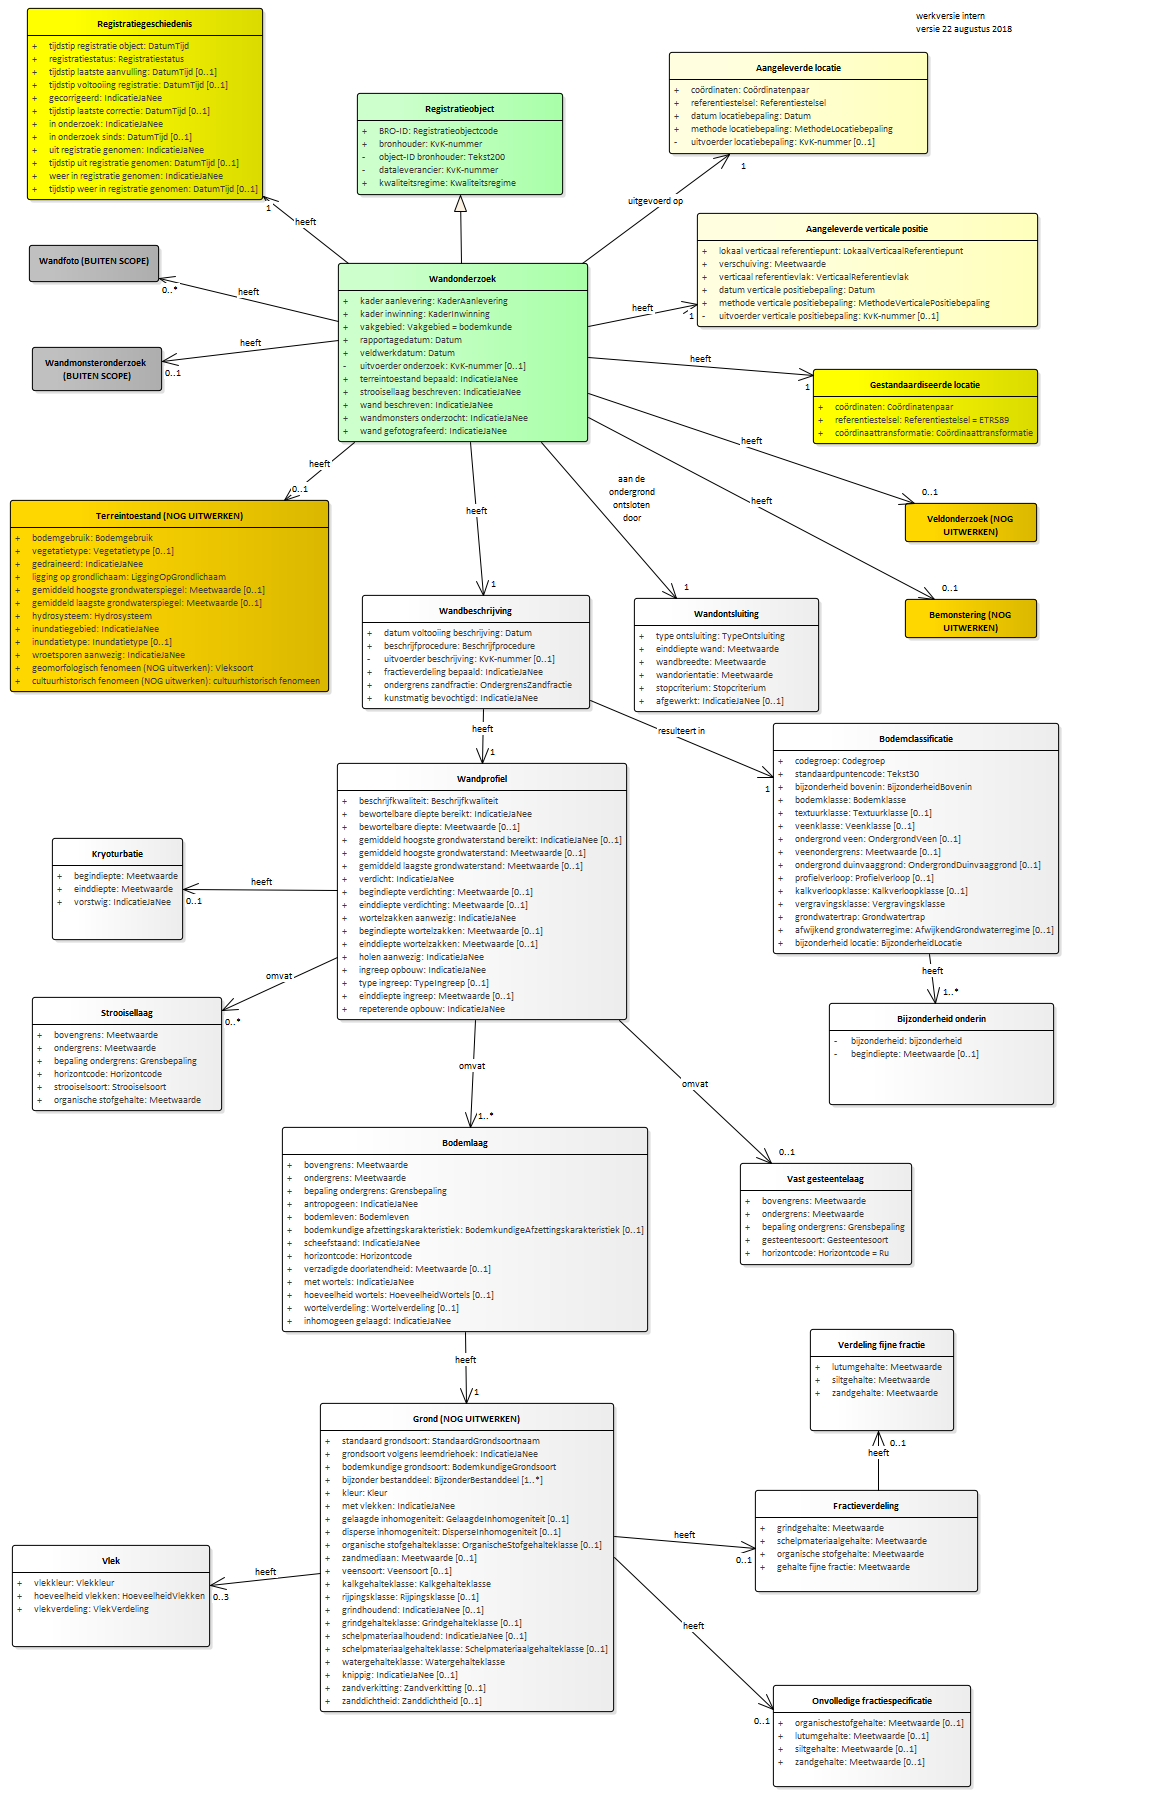
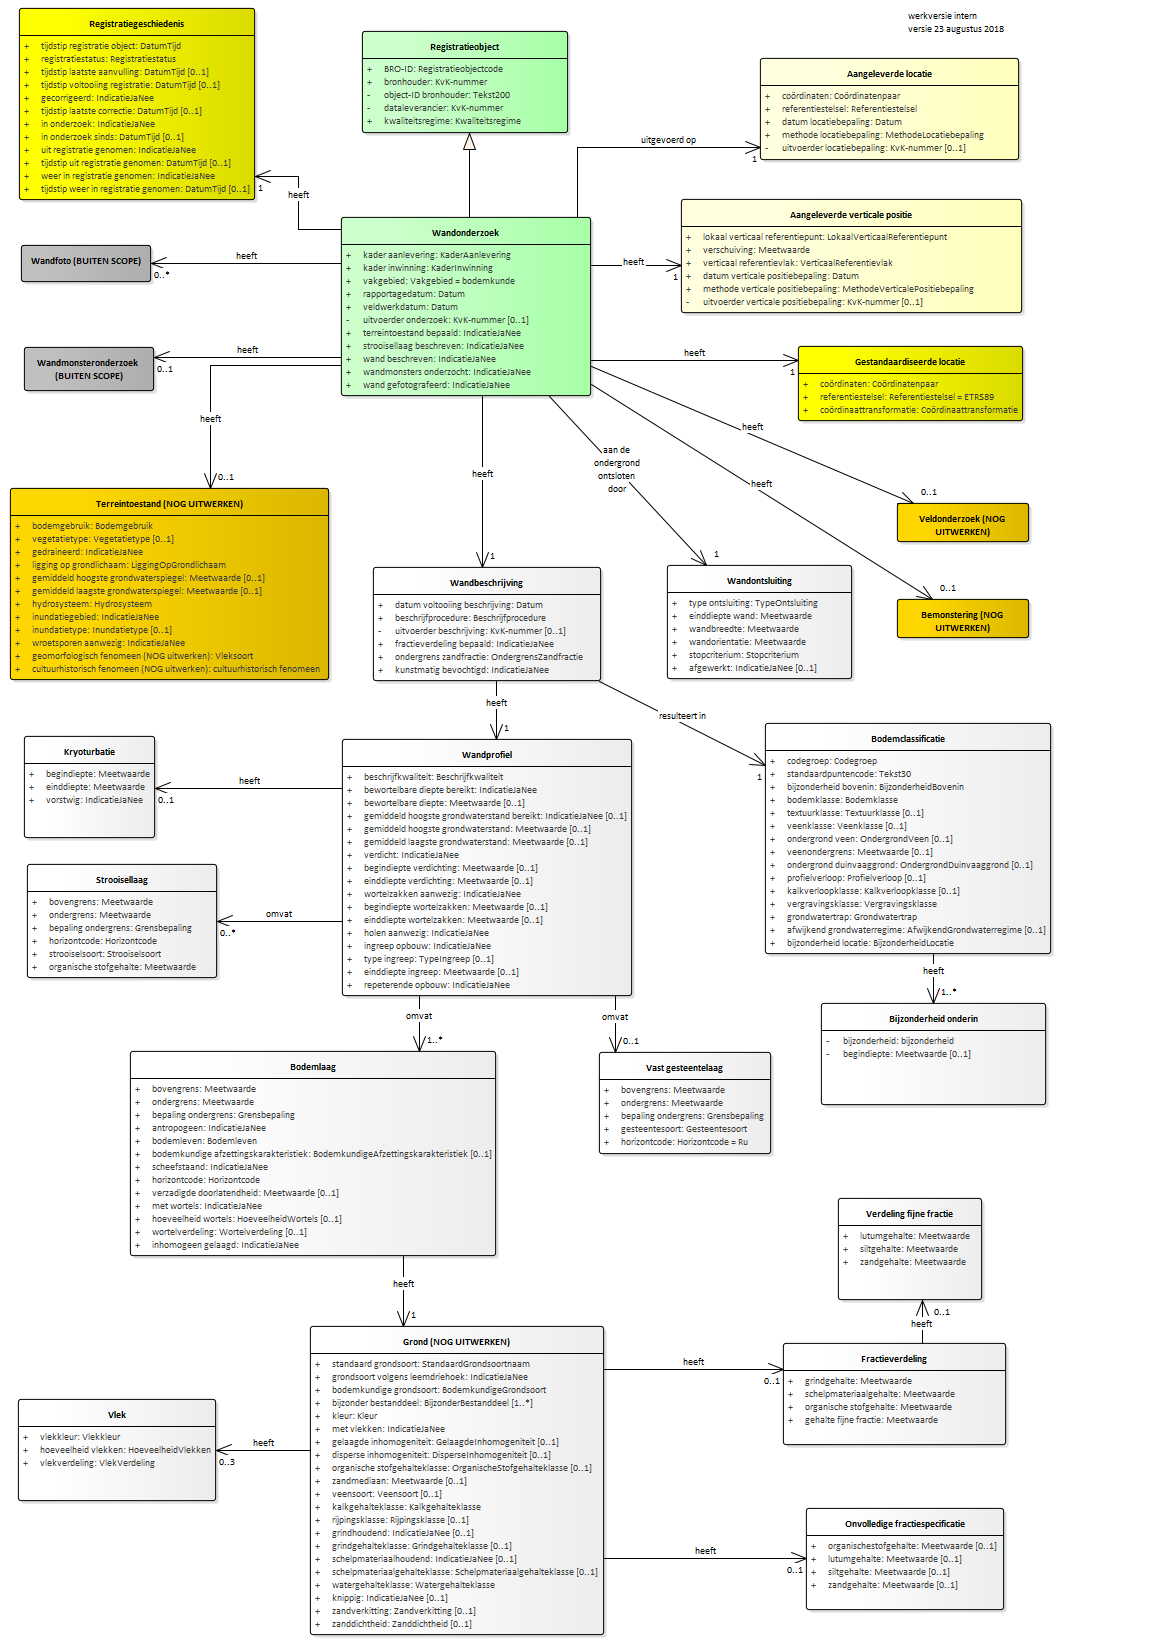
Conceptualmodel-SPRconceptueel-0.1-0-20180831-20180823-101550

diff --git a/data/SPR-cat.html b/data/SPR-cat.html
@@ -1,10 +1,10 @@
 <h2>Catalogus</h2>
 <p class="note" title="Over deze catalogus">
    Deze catalogus is automatisch samengesteld op basis van het UML model 
-   "SPR conceptueel" door 1.46.3 op August 23, 2018 at 08:06:28.
+   "SPR conceptueel" door 1.46.3 op August 23, 2018 at 08:15:49.
    <br>
    Wanneer je technische fouten of onvolkomenheden aantreft, geef dit dan door aan <i>arjan@linkedmatter.com</i> en geef de code 
-   <i>"Conceptualmodel-SPRconceptueel-0.1-0-20180831-20180823-100629"</i> door. 
+   <i>"Conceptualmodel-SPRconceptueel-0.1-0-20180831-20180823-101550"</i> door. 
    
 </p><a class="anchor" name="global_package_DomeinmodelBROCommon"></a><section id="global_package_DomeinmodelBROCommon">
    <h3>Domein Domeinmodel BRO Common</h3>
@@ -1869,31 +1869,31 @@
 </section><a class="anchor" name="global_package_DomeinmodelBROSPR"></a><section id="global_package_DomeinmodelBROSPR">
    <h3>Domein Domeinmodel BRO SPR</h3>
    <div class="imageinfo "><img src="data/Images/EAID_4968FCD8_1F02_446b_8736_2FECA525BBCF.png" usemap="#imagemap-EAID_4968FCD8_1F02_446b_8736_2FECA525BBCF"><map name="imagemap-EAID_4968FCD8_1F02_446b_8736_2FECA525BBCF">
-         <area shape="rect" coords="829,1105,1054,1003" alt="" href="#graph_EAID_7439D539_C3B4_41d7_884C_4892DACE8616">
-         <area shape="rect" coords="12,1647,210,1545" alt="" href="#graph_EAID_723B9E70_C415_406e_AFDD_5B4B8162F99B">
-         <area shape="rect" coords="52,940,183,838" alt="" href="#graph_EAID_B6DACFD8_0447_4b56_B5BA_A5EA1011CBF3">
-         <area shape="rect" coords="27,200,263,8" alt="" href="#graph_EAID_0588B737_B790_42ac_B52B_EABEF0C7FE5E">
-         <area shape="rect" coords="905,542,1037,503" alt="" href="#graph_EAID_87631265_D257_4a21_8BD9_D9571A90F5EC">
-         <area shape="rect" coords="773,1787,971,1685" alt="" href="#graph_EAID_2669D9E9_5412_45cc_AB9E_996A4EAC2268">
-         <area shape="rect" coords="773,954,1059,723" alt="" href="#graph_EAID_83679454_A1AF_460f_B1AD_DA2C07AA7514">
-         <area shape="rect" coords="905,638,1037,599" alt="" href="#graph_EAID_E454F4E6_2DFD_41c7_9BDA_33020C276B5E">
-         <area shape="rect" coords="810,1431,954,1329" alt="" href="#graph_EAID_0C200D10_24C8_4a4f_A671_2EA1E0044C4A">
-         <area shape="rect" coords="320,1712,614,1403" alt="" href="#graph_EAID_7B5A7FB0_C5D5_4250_9478_49C85B05CE75">
-         <area shape="rect" coords="755,1592,978,1490" alt="" href="#graph_EAID_4B7B29C7_E8CB_405b_9362_93C15A7341C5">
-         <area shape="rect" coords="10,692,329,500" alt="" href="#graph_EAID_B01DC3AF_5926_4b5b_8347_83D9004ED7F0">
-         <area shape="rect" coords="32,1111,222,997" alt="" href="#graph_EAID_A54B76CF_0546_40c6_923C_71AAA6E32214">
-         <area shape="rect" coords="740,1265,912,1163" alt="" href="#graph_EAID_90FDEDF5_91A1_495d_BEDB_CC6B8C5887F1">
-         <area shape="rect" coords="282,1332,648,1127" alt="" href="#graph_EAID_5DF25175_45A6_4928_B029_32938A6BA77A">
-         <area shape="rect" coords="29,282,159,245" alt="" href="#graph_EAID_3449CAA3_09A0_41dc_B5F7_D1860A1F4F83">
-         <area shape="rect" coords="634,712,819,598" alt="" href="#graph_EAID_3BF39A74_A4DF_489d_9911_58ABBB1CD9BF">
-         <area shape="rect" coords="697,327,1038,213" alt="" href="#graph_EAID_28DB2023_6218_4f0c_84B9_E807C3FDFD39">
-         <area shape="rect" coords="669,154,928,52" alt="" href="#graph_EAID_400892B5_96AA_4642_B647_4E98C58668A0">
-         <area shape="rect" coords="813,444,1038,369" alt="" href="#graph_EAID_0DD8CCEC_BCE7_469e_8650_19F6C00C614C">
-         <area shape="rect" coords="337,1020,627,763" alt="" href="#graph_EAID_C8DB22CF_2CEE_428a_924A_FE940C205B86">
-         <area shape="rect" coords="32,391,162,347" alt="" href="#graph_EAID_B78422BD_F746_4130_8626_0FB4DADA605A">
-         <area shape="rect" coords="362,709,590,595" alt="" href="#graph_EAID_E293E618_5997_49f3_98D8_980A49886841">
-         <area shape="rect" coords="357,195,563,93" alt="" href="#graph_EAID_30EE6A4D_BE41_4ee7_AA48_36D554A2D6D5">
-         <area shape="rect" coords="338,442,588,263" alt="" href="#graph_EAID_01F52471_F2C7_40f0_81A0_23C391DF93AB"></map><p><b>Domeinmodel BRO wandonderzoek - overzicht</b></p>
+         <area shape="rect" coords="821,1105,1046,1003" alt="" href="#graph_EAID_7439D539_C3B4_41d7_884C_4892DACE8616">
+         <area shape="rect" coords="18,1501,216,1399" alt="" href="#graph_EAID_723B9E70_C415_406e_AFDD_5B4B8162F99B">
+         <area shape="rect" coords="24,838,155,736" alt="" href="#graph_EAID_B6DACFD8_0447_4b56_B5BA_A5EA1011CBF3">
+         <area shape="rect" coords="19,200,255,8" alt="" href="#graph_EAID_0588B737_B790_42ac_B52B_EABEF0C7FE5E">
+         <area shape="rect" coords="897,542,1029,503" alt="" href="#graph_EAID_87631265_D257_4a21_8BD9_D9571A90F5EC">
+         <area shape="rect" coords="806,1610,1004,1508" alt="" href="#graph_EAID_2669D9E9_5412_45cc_AB9E_996A4EAC2268">
+         <area shape="rect" coords="765,954,1051,723" alt="" href="#graph_EAID_83679454_A1AF_460f_B1AD_DA2C07AA7514">
+         <area shape="rect" coords="897,638,1029,599" alt="" href="#graph_EAID_E454F4E6_2DFD_41c7_9BDA_33020C276B5E">
+         <area shape="rect" coords="838,1300,982,1198" alt="" href="#graph_EAID_0C200D10_24C8_4a4f_A671_2EA1E0044C4A">
+         <area shape="rect" coords="310,1635,604,1326" alt="" href="#graph_EAID_7B5A7FB0_C5D5_4250_9478_49C85B05CE75">
+         <area shape="rect" coords="783,1445,1006,1343" alt="" href="#graph_EAID_4B7B29C7_E8CB_405b_9362_93C15A7341C5">
+         <area shape="rect" coords="10,680,329,488" alt="" href="#graph_EAID_B01DC3AF_5926_4b5b_8347_83D9004ED7F0">
+         <area shape="rect" coords="27,978,217,864" alt="" href="#graph_EAID_A54B76CF_0546_40c6_923C_71AAA6E32214">
+         <area shape="rect" coords="599,1154,771,1052" alt="" href="#graph_EAID_90FDEDF5_91A1_495d_BEDB_CC6B8C5887F1">
+         <area shape="rect" coords="130,1256,496,1051" alt="" href="#graph_EAID_5DF25175_45A6_4928_B029_32938A6BA77A">
+         <area shape="rect" coords="21,282,151,245" alt="" href="#graph_EAID_3449CAA3_09A0_41dc_B5F7_D1860A1F4F83">
+         <area shape="rect" coords="667,679,852,565" alt="" href="#graph_EAID_3BF39A74_A4DF_489d_9911_58ABBB1CD9BF">
+         <area shape="rect" coords="681,313,1022,199" alt="" href="#graph_EAID_28DB2023_6218_4f0c_84B9_E807C3FDFD39">
+         <area shape="rect" coords="760,160,1019,58" alt="" href="#graph_EAID_400892B5_96AA_4642_B647_4E98C58668A0">
+         <area shape="rect" coords="798,421,1023,346" alt="" href="#graph_EAID_0DD8CCEC_BCE7_469e_8650_19F6C00C614C">
+         <area shape="rect" coords="342,996,632,739" alt="" href="#graph_EAID_C8DB22CF_2CEE_428a_924A_FE940C205B86">
+         <area shape="rect" coords="24,391,154,347" alt="" href="#graph_EAID_B78422BD_F746_4130_8626_0FB4DADA605A">
+         <area shape="rect" coords="373,681,601,567" alt="" href="#graph_EAID_E293E618_5997_49f3_98D8_980A49886841">
+         <area shape="rect" coords="362,133,568,31" alt="" href="#graph_EAID_30EE6A4D_BE41_4ee7_AA48_36D554A2D6D5">
+         <area shape="rect" coords="341,396,591,217" alt="" href="#graph_EAID_01F52471_F2C7_40f0_81A0_23C391DF93AB"></map><p><b>Domeinmodel BRO wandonderzoek - overzicht</b></p>
    </div>
    <div class="imageinfo "><img src="data/Images/EAID_E7D62541_77D4_4937_A484_3EA0DAE85B7B.png" usemap="#imagemap-EAID_E7D62541_77D4_4937_A484_3EA0DAE85B7B"><map name="imagemap-EAID_E7D62541_77D4_4937_A484_3EA0DAE85B7B"></map><p><b>Domeinmodel BRO wandonderzoek codelijsten</b></p>
    </div>
